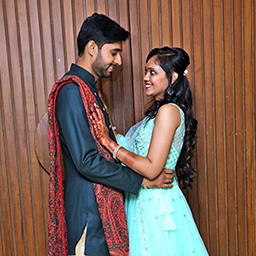
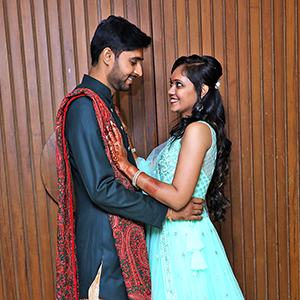
changes updated

diff --git a/index.html b/index.html
@@ -22,8 +22,8 @@
 <meta property="og:type" content="website" />
 
 <!-- Size of image. Any size up to 300. Anything above 300px will not work in WhatsApp -->
-<meta property="og:image:width" content="256">
-<meta property="og:image:height" content="256">
+<meta property="og:image:width" content="300">
+<meta property="og:image:height" content="300">
 
 
 <!-- Website to visit when clicked in fb or WhatsApp-->
